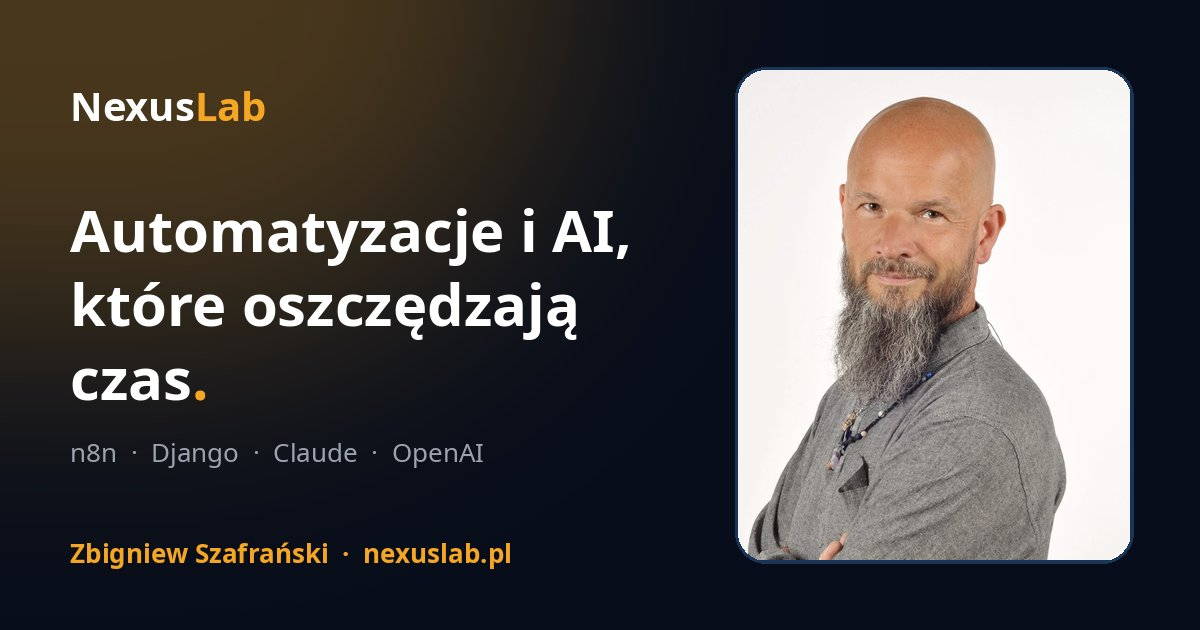
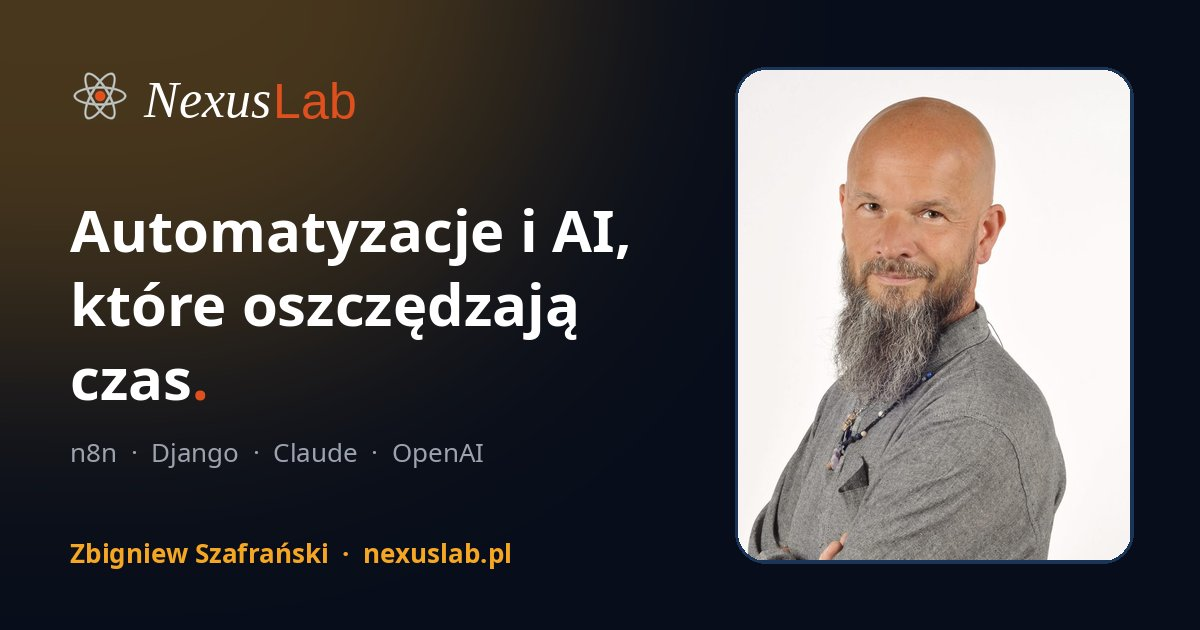
portfolio: privacy policy, robots/sitemap, Flowmail stats, Sekretarka phone
- /polityka-prywatnosci/ (GDPR info) + footer link + contact form clause
- robots.txt and sitemap.xml
- main-site nav: 'Gratka Alerts' link instead of login (login stays on gratka)
- Flowmail usage stats (23 advisors, 400+ generated emails/newsletters)
- sprzedajm.pl marked as in progress; projects subtitle adjusted
- Sekretarka card with masked SMS phone mockup
- OG image regenerated with the new logo

Claude-Session: https://claude.ai/code/session_01Mnq3pk6JtaPb9ooqiFAuz8

Changed region(s): [[0.0617, 0.1206, 0.3083, 0.2111], [0.1542, 0.6032, 0.185, 0.6333]]

diff --git a/templates/website/privacy.html b/templates/website/privacy.html
@@ -1,0 +1,92 @@
+{% extends "base.html" %}
+
+{% block head_title %}Polityka prywatności — NexusLab{% endblock %}
+
+{% block meta %}
+    <meta name="description" content="Polityka prywatności serwisu nexuslab.pl i aplikacji Gratka Alerts: jakie dane przetwarzamy, w jakim celu i jakie masz prawa.">
+    <link rel="canonical" href="https://nexuslab.pl/polityka-prywatnosci/">
+{% endblock %}
+
+{% block content %}
+<article class="max-w-3xl mx-auto px-4 sm:px-6 lg:px-8 py-16 sm:py-20">
+    <h1 class="text-3xl sm:text-4xl font-bold">Polityka prywatności</h1>
+    <p class="mt-3 text-sm text-gray-500">Ostatnia aktualizacja: {{ updated }}</p>
+
+    <div class="mt-10 space-y-10 text-gray-400 leading-relaxed [&_h2]:text-xl [&_h2]:font-semibold [&_h2]:text-white [&_h2]:mb-3 [&_ul]:list-disc [&_ul]:pl-6 [&_ul]:space-y-1 [&_a]:text-gold-500 hover:[&_a]:text-gold-400 [&_strong]:text-gray-300">
+
+        <section>
+            <h2>1. Administrator danych</h2>
+            <p>
+                Administratorem Twoich danych osobowych jest <strong>Zbigniew Szafrański</strong>, prowadzący serwis
+                NexusLab (nexuslab.pl) oraz aplikację Gratka Alerts (gratka.nexuslab.pl).
+                W sprawach dotyczących danych osobowych napisz na
+                <a href="mailto:kontakt@nexuslab.pl">kontakt@nexuslab.pl</a>.
+            </p>
+        </section>
+
+        <section>
+            <h2>2. Jakie dane przetwarzamy i po co</h2>
+            <p class="mb-4"><strong>Formularz kontaktowy</strong> — imię i nazwisko, adres email, opcjonalnie numer telefonu
+                oraz treść wiadomości. Przetwarzamy je, aby odpowiedzieć na Twoje zapytanie i przygotować ofertę
+                (art. 6 ust. 1 lit. b RODO — działania przed zawarciem umowy, oraz lit. f — prawnie uzasadniony
+                interes, czyli prowadzenie korespondencji).</p>
+            <p class="mb-4"><strong>Konto w Gratka Alerts</strong> — adres email, hasło (przechowywane wyłącznie w postaci
+                zaszyfrowanej) oraz zapisane kryteria wyszukiwania i znalezione oferty. Przetwarzamy je, aby świadczyć
+                usługę monitorowania ofert i wysyłać powiadomienia (art. 6 ust. 1 lit. b RODO — wykonanie umowy).</p>
+            <p><strong>Dane techniczne</strong> — adres IP osoby wysyłającej formularz kontaktowy, przechowywany przez
+                1 godzinę wyłącznie w celu ochrony przed spamem (limit liczby wiadomości), oraz standardowe logi serwera
+                służące bezpieczeństwu (art. 6 ust. 1 lit. f RODO).</p>
+        </section>
+
+        <section>
+            <h2>3. Jak długo przechowujemy dane</h2>
+            <ul>
+                <li>Wiadomości z formularza — przez czas prowadzenia korespondencji, a następnie do upływu okresu
+                    przedawnienia ewentualnych roszczeń.</li>
+                <li>Dane konta Gratka Alerts — do czasu usunięcia konta. Konto możesz usunąć, pisząc na adres kontaktowy.</li>
+                <li>Adres IP na potrzeby limitu wiadomości — 1 godzina.</li>
+            </ul>
+        </section>
+
+        <section>
+            <h2>4. Komu przekazujemy dane</h2>
+            <p class="mb-3">Nie sprzedajemy danych i nie przekazujemy ich w celach marketingowych. Dostęp do nich mogą mieć
+                wyłącznie dostawcy usług technicznych, z których korzystamy:</p>
+            <ul>
+                <li><strong>Hostinger</strong> — serwer (VPS), na którym działa serwis i baza danych,</li>
+                <li><strong>Google</strong> (Gmail) — wysyłka wiadomości email, w tym powiadomień i odpowiedzi na zapytania.</li>
+            </ul>
+            <p class="mt-3">W przypadku Google dane mogą być przetwarzane poza Europejskim Obszarem Gospodarczym —
+                na podstawie standardowych klauzul umownych zatwierdzonych przez Komisję Europejską.</p>
+        </section>
+
+        <section>
+            <h2>5. Pliki cookies</h2>
+            <p>Serwis używa wyłącznie niezbędnych plików cookies: zabezpieczenia formularzy (<code class="text-gray-300">csrftoken</code>)
+                oraz utrzymania sesji po zalogowaniu do Gratka Alerts (<code class="text-gray-300">sessionid</code>).
+                Nie używamy cookies analitycznych, reklamowych ani śledzących, dlatego nie wymagamy zgody na cookies.</p>
+        </section>
+
+        <section>
+            <h2>6. Twoje prawa</h2>
+            <p class="mb-3">Masz prawo do:</p>
+            <ul>
+                <li>dostępu do swoich danych i otrzymania ich kopii,</li>
+                <li>sprostowania danych,</li>
+                <li>usunięcia danych,</li>
+                <li>ograniczenia przetwarzania,</li>
+                <li>przenoszenia danych,</li>
+                <li>sprzeciwu wobec przetwarzania opartego na prawnie uzasadnionym interesie.</li>
+            </ul>
+            <p class="mt-3">Aby skorzystać z tych praw, napisz na <a href="mailto:kontakt@nexuslab.pl">kontakt@nexuslab.pl</a>.
+                Masz też prawo wnieść skargę do Prezesa Urzędu Ochrony Danych Osobowych (ul. Stawki 2, 00-193 Warszawa).</p>
+        </section>
+
+        <section>
+            <h2>7. Dobrowolność podania danych</h2>
+            <p>Podanie danych jest dobrowolne, ale bez adresu email nie możemy odpowiedzieć na wiadomość,
+                a bez danych konta — świadczyć usługi Gratka Alerts.</p>
+        </section>
+    </div>
+</article>
+{% endblock %}

diff --git a/templates/website/index.html b/templates/website/index.html
@@ -135,7 +135,7 @@
     <div class="max-w-7xl mx-auto px-4 sm:px-6 lg:px-8">
         <h2 class="text-3xl font-bold text-center">Projekty</h2>
         <p class="mt-4 text-center text-gray-400 max-w-2xl mx-auto">
-            Wybrane realizacje działające na produkcji.
+            Wybrane realizacje — od produktów używanych na co dzień po projekty w trakcie wdrożenia.
         </p>
         <div class="mt-12 grid grid-cols-1 md:grid-cols-2 xl:grid-cols-3 gap-8">
 
@@ -160,6 +160,18 @@
                     materiałów branżowych. Drugi model AI weryfikuje treść, doradca zatwierdza i wysyła
                     ze swojego adresu.
                 </p>
+                <dl class="mt-6 grid grid-cols-2 gap-3">
+                    <div class="rounded-xl bg-navy-700/60 border border-navy-600/50 px-4 py-3">
+                        <dt class="sr-only">Liczba doradców</dt>
+                        <dd class="text-2xl font-extrabold text-gold-500">23</dd>
+                        <dd class="text-xs text-gray-400">doradców używa na co dzień</dd>
+                    </div>
+                    <div class="rounded-xl bg-navy-700/60 border border-navy-600/50 px-4 py-3">
+                        <dt class="sr-only">Wygenerowane wiadomości</dt>
+                        <dd class="text-2xl font-extrabold text-gold-500">400+</dd>
+                        <dd class="text-xs text-gray-400">maili i newsletterów wygenerowanych przez AI</dd>
+                    </div>
+                </dl>
                 <ul class="mt-6 space-y-2 text-sm text-gray-400">
                     <li class="flex gap-2"><span class="text-gold-500">✓</span> RAG na bazie wiedzy + generowanie i weryfikacja przez Claude</li>
                     <li class="flex gap-2"><span class="text-gold-500">✓</span> Baza klientów, zaplanowane wysyłki, newslettery, kalendarz</li>
@@ -237,13 +249,14 @@
                 </a>
                 <div class="flex items-center justify-between gap-4">
                     <h3 class="text-2xl font-bold">sprzedajm.pl</h3>
-                    <span class="shrink-0 whitespace-nowrap text-xs font-semibold px-3 py-1 rounded-full bg-gold-500/15 text-gold-400">Lejek sprzedażowy</span>
+                    <span class="shrink-0 whitespace-nowrap text-xs font-semibold px-3 py-1 rounded-full bg-sky-500/15 text-sky-300">W trakcie wdrożenia</span>
                 </div>
                 <p class="mt-4 text-gray-400">
                     Jednostronicowy lejek generujący leady dla N Inwestycje — łódzkiej firmy skupującej
                     nieruchomości za gotówkę i prowadzącej pośrednictwo. Każda sekcja, od problemu
                     sprzedającego po FAQ, prowadzi do 3-krokowego quizu wyceny, a zgłoszenie trafia
                     mailem do handlowca razem z informacją, którą ścieżkę wybrał klient.
+                    Strona jest online, trwa jeszcze dopracowywanie i podłączanie kolejnych elementów.
                 </p>
                 <ul class="mt-6 space-y-2 text-sm text-gray-400">
                     <li class="flex gap-2"><span class="text-gold-500">✓</span> Routing intencji: osobne ścieżki „skup” i „pośrednictwo”</li>

diff --git a/templates/base.html b/templates/base.html
@@ -108,13 +108,18 @@
                     {% endif %}
                 </div>
                 <div class="flex items-center space-x-4">
-                    {% if user.is_authenticated %}
-                        <span class="text-sm text-gray-400">{{ user.email }}</span>
-                        <a href="{% url 'account_logout' %}"
-                           class="text-sm text-gray-400 hover:text-gold-500 transition">Wyloguj</a>
+                    {% if request.get_host|slice:":7" == "gratka." %}
+                        {% if user.is_authenticated %}
+                            <span class="hidden sm:inline text-sm text-gray-400">{{ user.email }}</span>
+                            <a href="{% url 'account_logout' %}"
+                               class="text-sm text-gray-400 hover:text-gold-500 transition">Wyloguj</a>
+                        {% else %}
+                            <a href="{% url 'account_login' %}"
+                               class="text-sm text-gray-400 hover:text-gold-500 transition">Zaloguj</a>
+                        {% endif %}
                     {% else %}
-                        <a href="{% url 'account_login' %}"
-                           class="text-sm text-gray-400 hover:text-gold-500 transition">Zaloguj</a>
+                        <a href="https://gratka.nexuslab.pl"
+                           class="text-sm text-gray-400 hover:text-gold-500 transition">Gratka Alerts →</a>
                     {% endif %}
                 </div>
             </div>
@@ -150,6 +155,8 @@
         <div class="max-w-7xl mx-auto px-4 sm:px-6 lg:px-8 py-6">
             <p class="text-center text-sm text-gray-500">
                 &copy; {{ current_year|default:"2026" }} NexusLab. Wszelkie prawa zastrzeżone.
+                <span class="mx-2" aria-hidden="true">·</span>
+                <a href="https://nexuslab.pl/polityka-prywatnosci/" class="hover:text-gold-500 transition">Polityka prywatności</a>
             </p>
         </div>
     </footer>

diff --git a/templates/website/partials/contact_form.html b/templates/website/partials/contact_form.html
@@ -58,6 +58,11 @@
                 class="w-full sm:w-auto inline-flex items-center justify-center px-8 py-3 bg-gold-500 text-navy-900 font-bold rounded-full hover:bg-gold-400 transition">
             Wyślij wiadomość
         </button>
+        <p class="text-xs text-gray-500">
+            Dane z formularza wykorzystam wyłącznie do odpowiedzi na Twoją wiadomość.
+            Administratorem danych jest Zbigniew Szafrański — szczegóły i Twoje prawa w
+            <a href="{% url 'website:privacy' %}" class="text-gold-500 hover:text-gold-400">polityce prywatności</a>.
+        </p>
     </form>
 {% endif %}
 </div>

diff --git a/apps/website/views.py b/apps/website/views.py
@@ -4,6 +4,7 @@ import logging
 from django.conf import settings
 from django.core.cache import cache
 from django.core.mail import EmailMessage
+from django.http import HttpResponse
 from django.shortcuts import render
 from django.utils.safestring import mark_safe
 from django.views.decorators.http import require_POST
@@ -91,6 +92,34 @@ def home(request):
         'faq_schema': _faq_schema(),
         'testimonials': TESTIMONIALS,
     })
+
+
+def privacy(request):
+    return render(request, 'website/privacy.html', {'updated': '18 października 2026'})
+
+
+def robots_txt(request):
+    lines = [
+        'User-agent: *',
+        'Allow: /',
+        'Disallow: /admin/',
+        'Disallow: /accounts/',
+        '',
+        'Sitemap: https://nexuslab.pl/sitemap.xml',
+    ]
+    return HttpResponse('\n'.join(lines) + '\n', content_type='text/plain')
+
+
+SITEMAP_PATHS = ['/', '/cennik/', '/polityka-prywatnosci/']
+
+
+def sitemap_xml(request):
+    urls = ''.join(f'<url><loc>https://nexuslab.pl{path}</loc></url>' for path in SITEMAP_PATHS)
+    xml = (
+        '<?xml version="1.0" encoding="UTF-8"?>'
+        f'<urlset xmlns="http://www.sitemaps.org/schemas/sitemap/0.9">{urls}</urlset>'
+    )
+    return HttpResponse(xml, content_type='application/xml')
 
 
 def pricing(request):

diff --git a/apps/website/urls.py b/apps/website/urls.py
@@ -8,4 +8,7 @@ urlpatterns = [
     path('', views.home, name='home'),
     path('cennik/', views.pricing, name='pricing'),
     path('kontakt/', views.contact, name='contact'),
+    path('polityka-prywatnosci/', views.privacy, name='privacy'),
+    path('robots.txt', views.robots_txt, name='robots_txt'),
+    path('sitemap.xml', views.sitemap_xml, name='sitemap_xml'),
 ]
